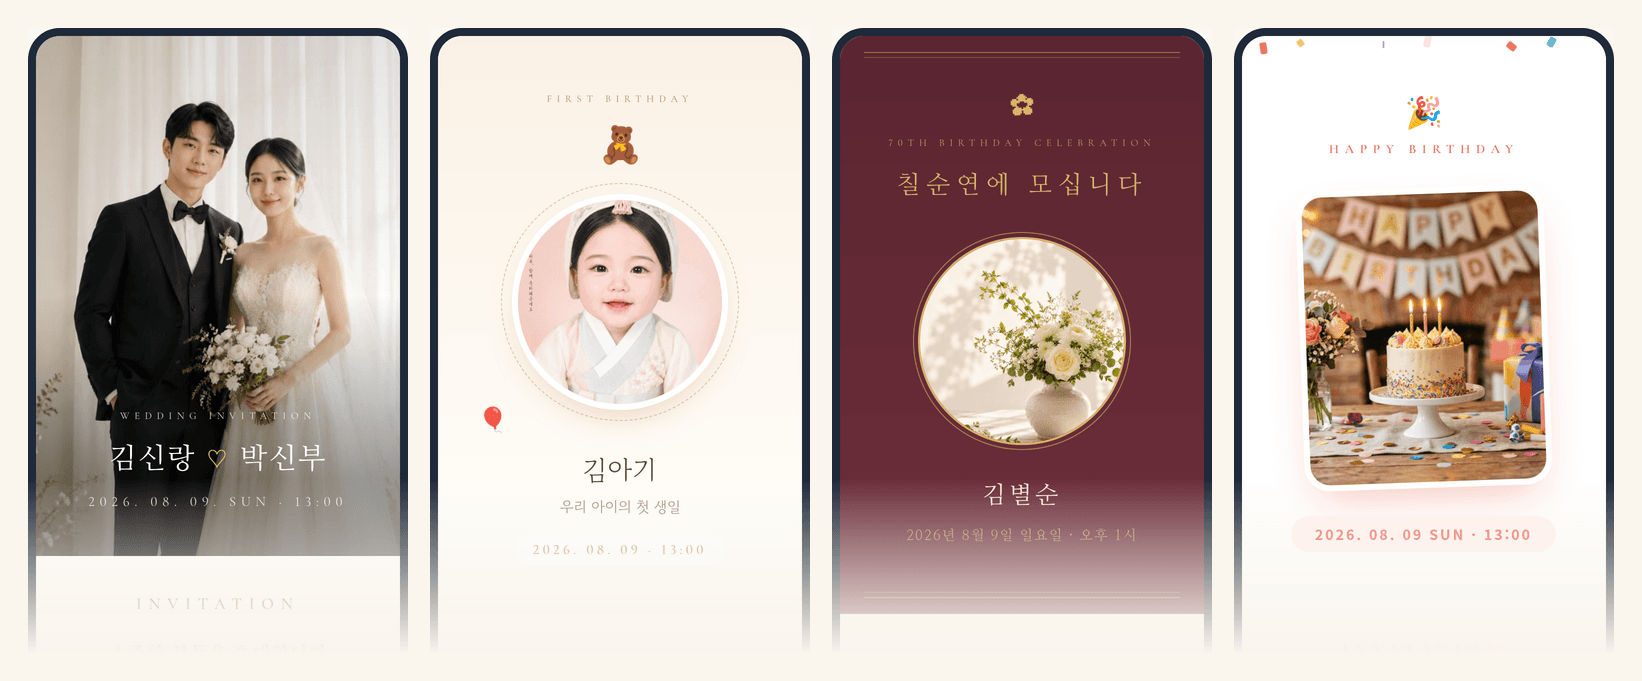
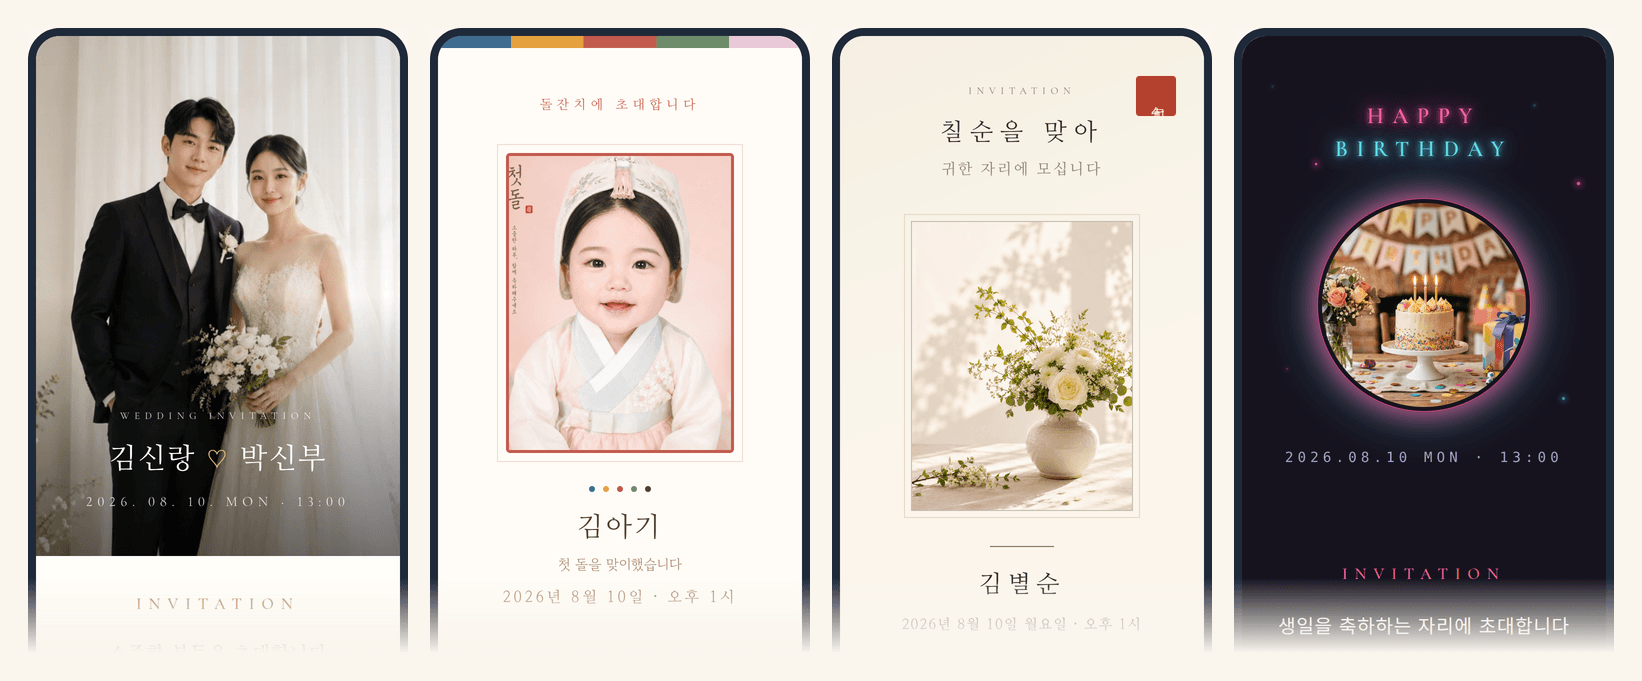
종류별 미리보기 이미지를 템플릿마다 다르게 촬영 (#78)
색동(돌잔치) · 한지(칠순) · 네온 나이트(생일)로 바꿔 찍어, 한 줄에서 네
종류의 분위기 차이가 드러나도록 했다. 어느 템플릿인지 캡션도 달았다.

Claude-Session: https://claude.ai/code/session_01B8aKNdTtax9E3Xux7nLPHE

diff --git a/README.md b/README.md
@@ -59,6 +59,8 @@
 
 <div align="center">
 <img src="docs/img/categories.png" alt="결혼 · 돌잔치 · 칠순 · 생일 초대장 미리보기" width="900"/>
+<br/>
+<sub>왼쪽부터 <b>클래식</b>(결혼) · <b>색동</b>(돌잔치) · <b>한지</b>(칠순) · <b>네온 나이트</b>(생일)</sub>
 </div>
 
 | | 종류 | 입력 형태 | 특징 |
